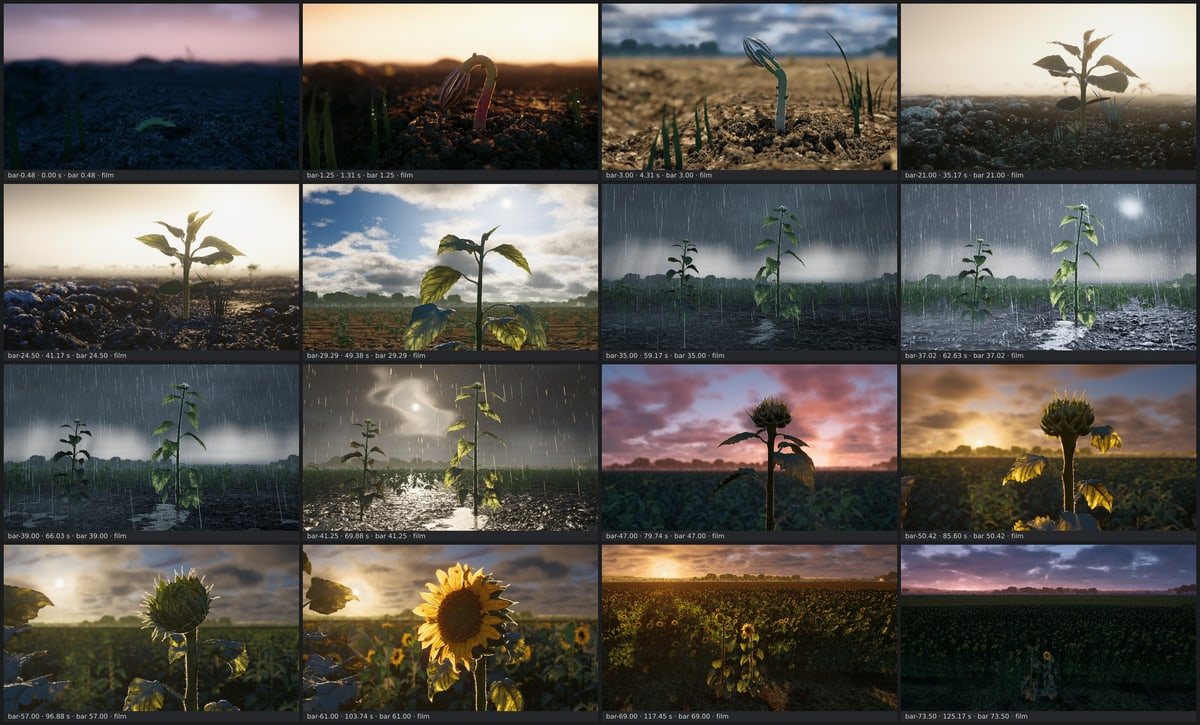
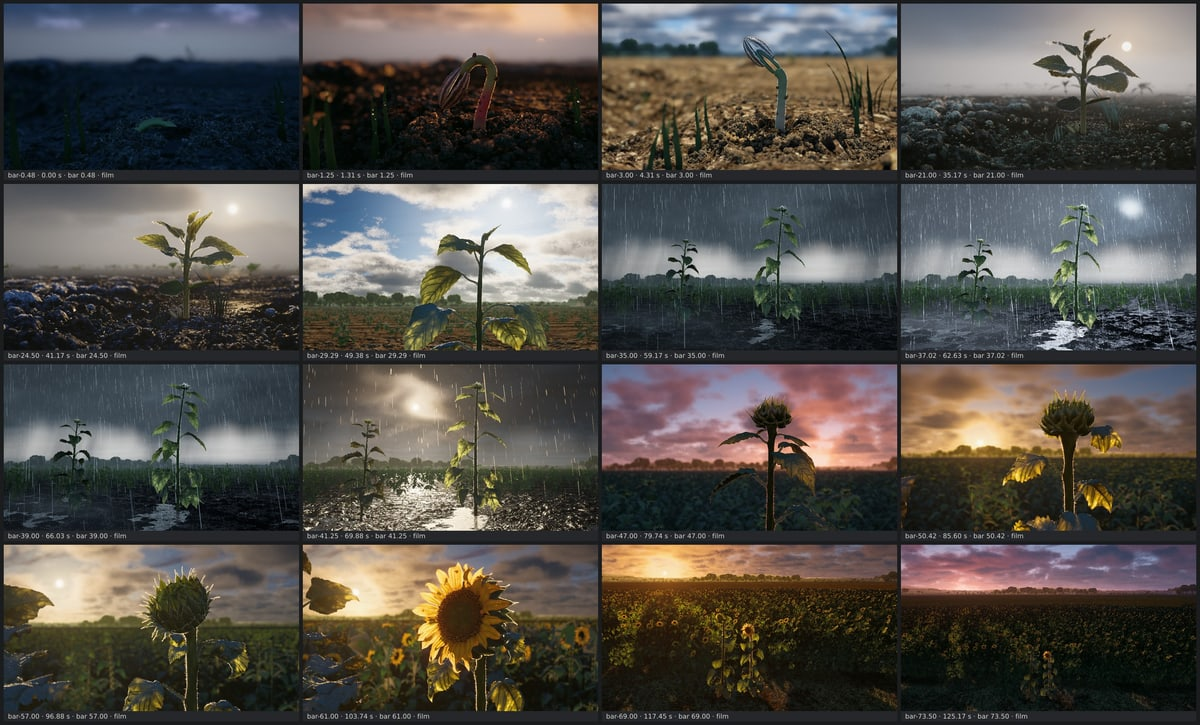
Status 06

diff --git a/kit/v2/PROGRESS.md b/kit/v2/PROGRESS.md
@@ -13,12 +13,13 @@ The Builder's memory for version 2. Read this first in every task, then `kit/v2/
 - Extensions: 0
 - App URL: not published (version 1 stays at https://sunflower-film.pplx.app until Brandon approves a swap)
 - Last push: none yet
-- Last status: 05 · 2026-11-23 01:41 UTC · Phase 2
+- Last status: 06 · 2026-11-23 02:11 UTC · Phase 2
 
 ## Latest pictures
 
 Newest first. Each line names the pictures of one status in `out/stills/status/`, with the time and the caption, so this page shows where the film is.
 
+- 2026-11-23 02:11 UTC · status 06 · Phase 2 · `status-1.jpg`: The merged film at sixteen moments, sky B; `status-2.jpg`: A sunset of the time lapse, thirteen frames in a row; `status-3.jpg`: Frost hold beside its reference key
 - 2026-11-23 01:41 UTC · status 05 · Phase 2 · `status-1.jpg`: All parts together under sky candidate B, sixteen moments through the film camera (draft tier). Frames 4 and 5, the frost hold, are still washed; `status-2.jpg`: The lightning frame at bar 37 (draft tier, one sample a pixel); `status-3.jpg`: The open flower at bar 61 (draft tier); `status-4.jpg`: Opening frame: reference left, the film right
 - 2026-11-23 01:17 UTC · status 04 · Phase 2 · `status-1.jpg`: All parts merged, sky candidate B, sixteen moments through the film camera. Good: sunrise, day, the lapse, the pink ascent, the last frame. Wrong and being fixed: frost and break washed, storm too pale, the lightning frame white; `status-2.jpg`: The retuned light on its own, before rain, frost and lens were merged: the plant reads in the storm and the lightning lights it; `status-3.jpg`: Sky candidate A in the same film frames (first round, unverified): flat storm, lumpy clouds; `status-4.jpg`: Sky candidate C in the same film frames (first round, unverified): sparse clouds, flat storm
 - 2026-11-23 00:51 UTC · status 03 · Phase 2 · `status-1.jpg`: The new two beat night with the stand-in sky, bars 50.3 to 51.1 (frame by frame, about 0.9 s): sunset, a short blue night, sunrise; `status-2.jpg`: The film camera through the ascent, bars 44 to 54, stand-in sky: the sun stays on the horizon in frame. The neighbours are still too tall and the leaf highlights too green (both sent back); `status-3.jpg`: Sky candidate A, first sheet (unverified): good colour at dawn and dusk, but the clouds are dark unlit masses and the storm is flat. Sent back with six points; `status-4.jpg`: Sky candidate C, first sheet (unverified): clean gradients, but clouds are sparse and the storm has no structure
@@ -33,12 +34,12 @@ Copied from the output of `npm run clock` at every status. Working time only.
 | --- | --- | --- |
 | 0 | 1.50 h | 0.62 h |
 | 1 | 0.50 h | 0.77 h |
-| 2 | 3.50 h | 2.31 h |
+| 2 | 3.50 h | 2.80 h |
 | 3 | 9.00 h | 0.00 h |
 | 4 | 8.50 h | 0.00 h |
 | 5 | 3.00 h | 0.00 h |
 | 6 | 4.00 h | 0.00 h |
-| Whole build | 30.00 h | 3.69 h |
+| Whole build | 30.00 h | 4.19 h |
 
 Continuations and extensions are listed under this table with their own hours.
 
@@ -175,4 +176,6 @@ None yet.
   Pictures: All parts merged, sky candidate B, sixteen moments through the film camera. Good: sunrise, day, the lapse, the pink ascent, the last frame. Wrong and being fixed: frost and break washed, storm too pale, the lightning frame white; The retuned light on its own, before rain, frost and lens were merged: the plant reads in the storm and the lightning lights it; Sky candidate A in the same film frames (first round, unverified): flat storm, lumpy clouds; Sky candidate C in the same film frames (first round, unverified): sparse clouds, flat storm.
 - Status 05, 2026-11-23 01:41 UTC, Phase 2. The washed frames are fixed in the storm: rain, the puddle and the lens glare now take their light from the sky itself, so the storm is dark again with the plant lit and the lightning frame reads. The opening frame shows soil and the first hook instead of a black band. Drawing bar 61 three ways gave the same picture to the last pixel, so a frame depends only on its number there. The frost hold is still washed; its owner is switching the mist over now. Next: Get the frost hold right, take the second reports of sky candidates A and C, judge the three skies blind, then merge the player and the checks and run the film against the music. Time used: 3.7 h of 30 h.
   Pictures: All parts together under sky candidate B, sixteen moments through the film camera (draft tier). Frames 4 and 5, the frost hold, are still washed; The lightning frame at bar 37 (draft tier, one sample a pixel); The open flower at bar 61 (draft tier); Opening frame: reference left, the film right.
+- Status 06, 2026-11-23 02:11 UTC, Phase 2. All parts merged again. Dusk and dawn no longer step: the largest change from one frame to the next fell from 28 to 10 of 255 (measured). The frost hold now shows a pale sun in grey mist. Found and sent back: fog banks standing in the opening. Next: Sky jury on the merged film, the opening without fog banks, then the first whole film in parts with the music. Time used: 4.2 h of 30 h.
+  Pictures: The merged film at sixteen moments, sky B; A sunset of the time lapse, thirteen frames in a row; Frost hold beside its reference key.
 

diff --git a/out/stills/status/STATUS.md b/out/stills/status/STATUS.md
@@ -1,12 +1,11 @@
-# Status 05
+# Status 06
 
-2026-11-23 01:41 UTC
+2026-11-23 02:11 UTC
 
-- Status 05 · Phase 2. The washed frames are fixed in the storm: rain, the puddle and the lens glare now take their light from the sky itself, so the storm is dark again with the plant lit and the lightning frame reads. The opening frame shows soil and the first hook instead of a black band. Drawing bar 61 three ways gave the same picture to the last pixel, so a frame depends only on its number there. The frost hold is still washed; its owner is switching the mist over now.
-- Next: Get the frost hold right, take the second reports of sky candidates A and C, judge the three skies blind, then merge the player and the checks and run the film against the music. Time used: 3.7 h of 30 h.
+- Status 06 · Phase 2. All parts merged again. Dusk and dawn no longer step: the largest change from one frame to the next fell from 28 to 10 of 255 (measured). The frost hold now shows a pale sun in grey mist. Found and sent back: fog banks standing in the opening.
+- Next: Sky jury on the merged film, the opening without fog banks, then the first whole film in parts with the music. Time used: 4.2 h of 30 h.
 - Review page: not published yet.
 
-- `status-1.jpg`: All parts together under sky candidate B, sixteen moments through the film camera (draft tier). Frames 4 and 5, the frost hold, are still washed
-- `status-2.jpg`: The lightning frame at bar 37 (draft tier, one sample a pixel)
-- `status-3.jpg`: The open flower at bar 61 (draft tier)
-- `status-4.jpg`: Opening frame: reference left, the film right
+- `status-1.jpg`: The merged film at sixteen moments, sky B
+- `status-2.jpg`: A sunset of the time lapse, thirteen frames in a row
+- `status-3.jpg`: Frost hold beside its reference key
